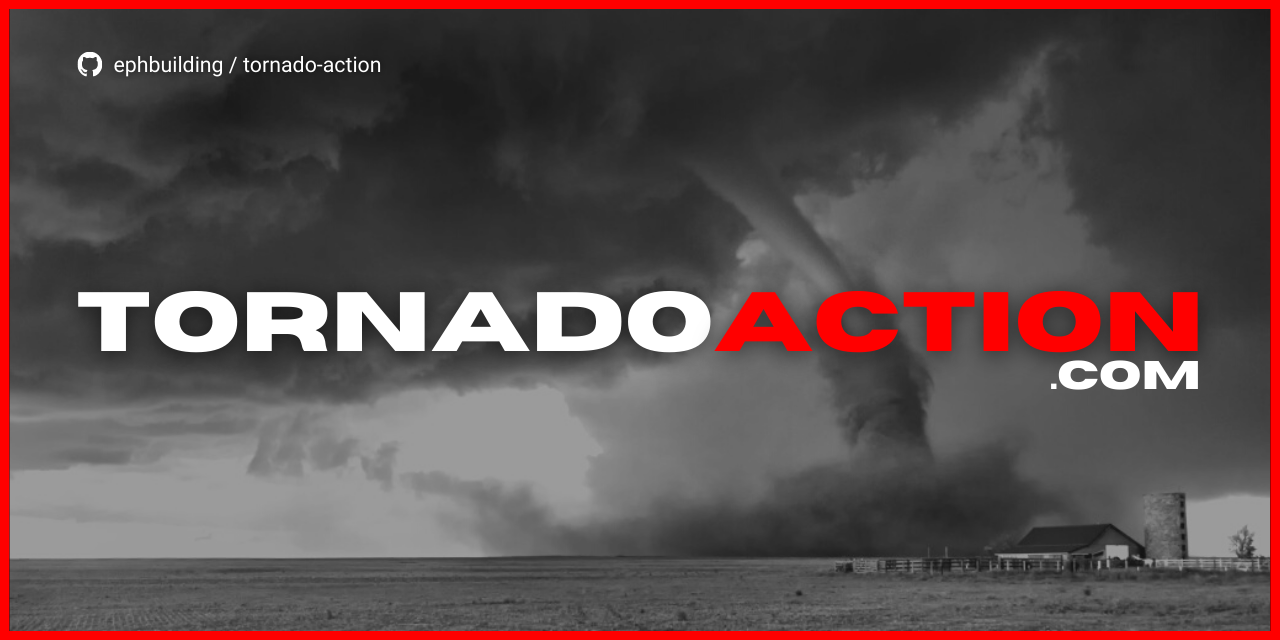
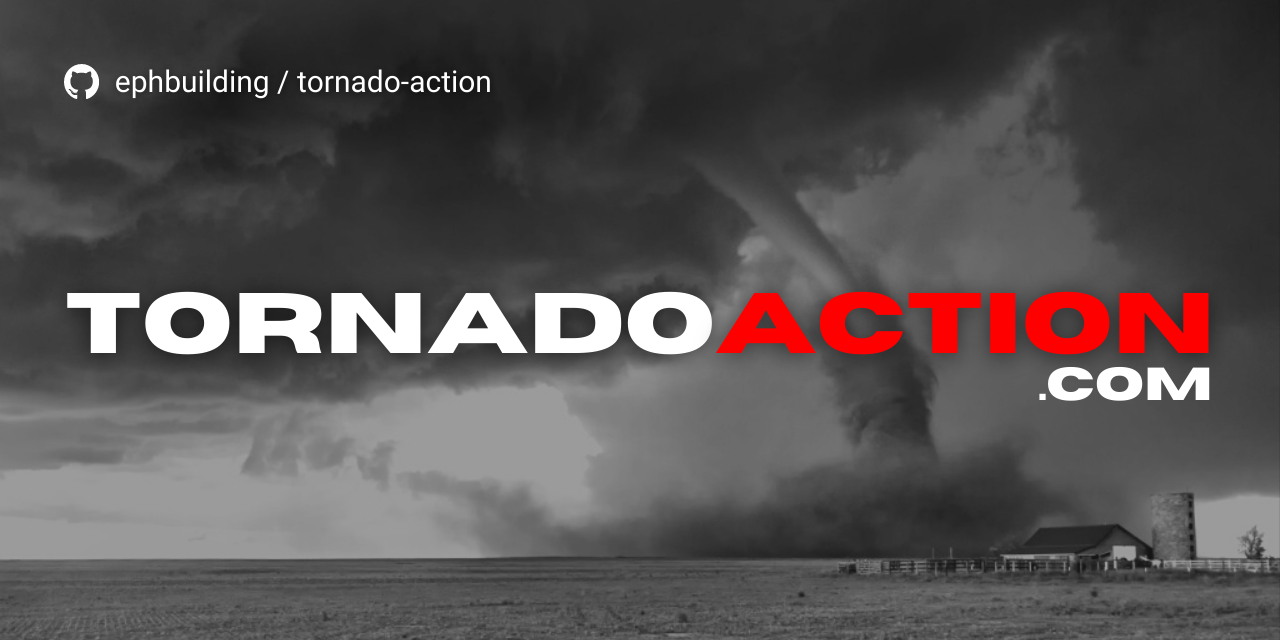
update meta thumbnail

Changed region(s): [[0.0, 0.0, 1.0, 1.0]]

diff --git a/components/PageWrapper/Meta.jsx b/components/PageWrapper/Meta.jsx
@@ -21,7 +21,7 @@ export const Meta = () => {
 			<meta
 				property='og:image'
 				name='image'
-				content='https://repository-images.githubusercontent.com/450166464/b6eaab82-eac9-4844-b7a6-3a4b9c481dee'
+				content='https://repository-images.githubusercontent.com/450166464/cbf75522-24df-4440-a6dd-86f22ee693fb'
 			/>
 			<meta
 				name='description'
@@ -36,7 +36,7 @@ export const Meta = () => {
 			<meta name='twitter:site' content='@ephbuilding' />
 			<meta
 				name='twitter:image'
-				content='https://repository-images.githubusercontent.com/450166464/b6eaab82-eac9-4844-b7a6-3a4b9c481dee'
+				content='https://repository-images.githubusercontent.com/450166464/cbf75522-24df-4440-a6dd-86f22ee693fb'
 			/>
 			<meta
 				name='twitter:description'
